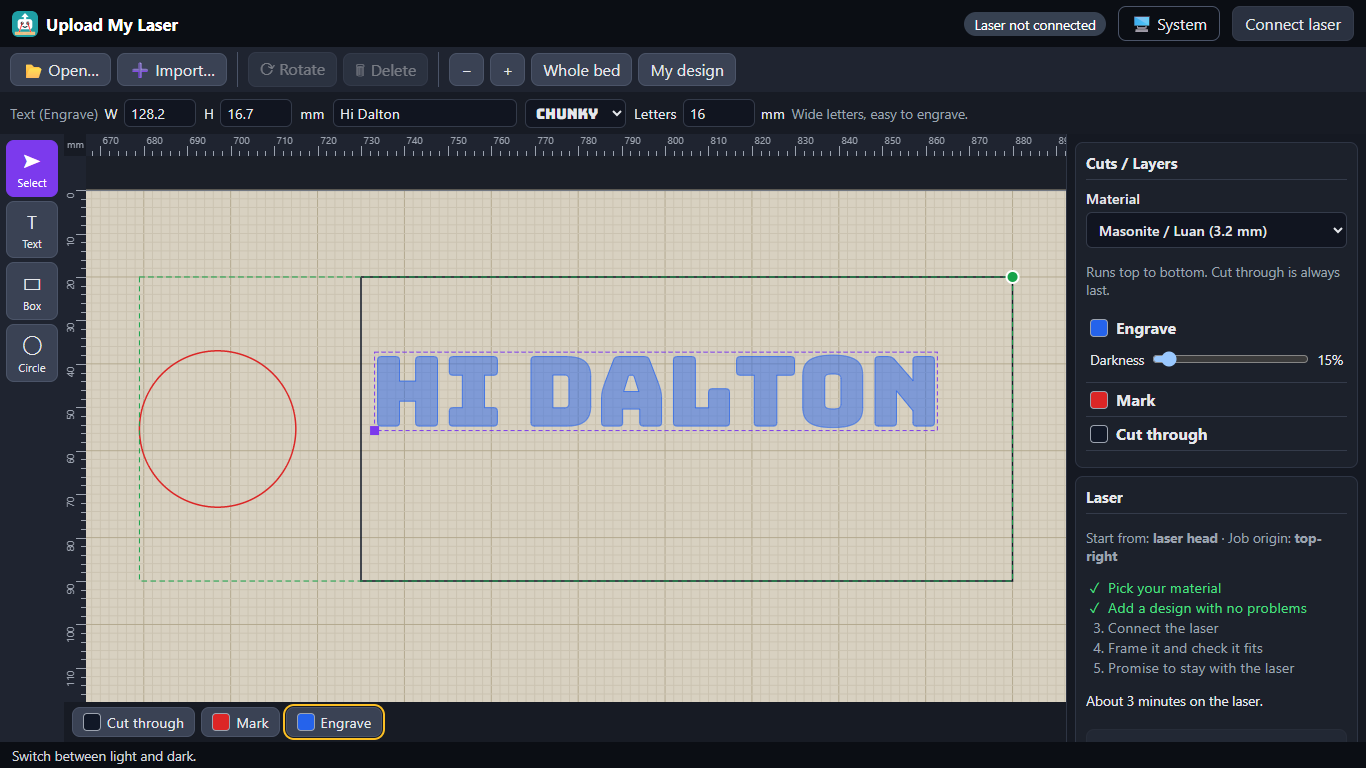
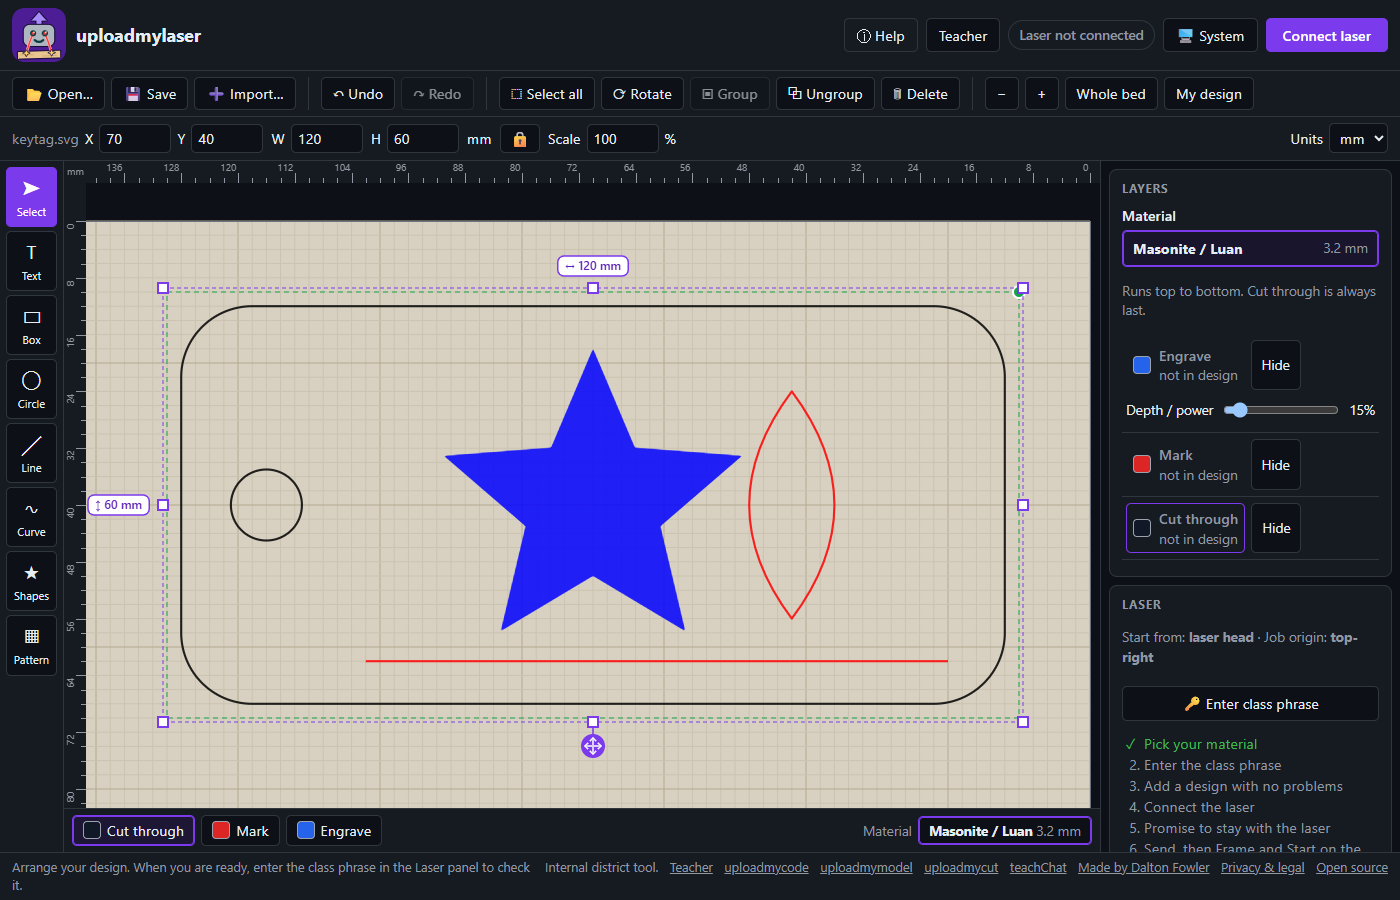
README, docs and Help match today's app; new screenshots
- README: colour list, selecting and grouping (box select, Group/Ungroup,
  Shift+drag pan, right-click menu), Hide a colour, design files (.uml),
  Send to panel as the default with no app Frame button, Download laser
  file and Export for teacher, up to 5000 parts, per-device lockout; the
  encoder sentence now cites MeerK40t rdjob.py. New light/dark screenshots.
- STUDENT_GUIDE, DEPLOY, TEST_PLAN, HARDWARE brought up to date.
- Help window: drag = box select, Shift+drag/middle button pans,
  right-click menu, Save, Group/Ungroup, Hide, Export for teacher.

diff --git a/web/index.html b/web/index.html
@@ -166,7 +166,9 @@
           <h3>Mouse and touch</h3>
           <table>
             <tr><td>Scroll wheel / pinch</td><td>Zoom</td></tr>
-            <tr><td>Drag empty space</td><td>Move around the bed</td></tr>
+            <tr><td>Drag empty space</td><td>Box select. Left to right picks parts inside the box; right to left also picks parts it touches.</td></tr>
+            <tr><td><kbd>Shift</kbd>+drag or middle button</td><td>Move around the bed (one finger on a touchscreen)</td></tr>
+            <tr><td>Right-click</td><td>Menu: colours, Group, Ungroup, Rotate, Delete, Hide/Show a colour</td></tr>
             <tr><td>White squares</td><td>Resize. Corners keep the shape when 🔒 is on; sides stretch one way.</td></tr>
             <tr><td>Size labels (↔ ↕ ⌀)</td><td>Click one and type a new size. Circles show their diameter, lines their length.</td></tr>
             <tr><td>Purple round grip</td><td>Move the selected part(s)</td></tr>
@@ -180,7 +182,10 @@
             <li><b>Black</b> cuts through, <b style="color:#dc2626">red</b> marks a line, <b style="color:#2563eb">blue</b> engraves (fills). The laser always runs Engrave, then Mark, then Cut through.</li>
             <li>The green dot is the <b>top-right corner</b> of your design. Move the laser head there on the machine.</li>
             <li><b>Send to laser</b> only loads your design. Then, on the laser, press <b>Frame</b> (the head traces the outline with the beam off) to check it fits your material, and press <b>Start</b>.</li>
-            <li><b>Open</b> starts over with a file. <b>Import</b> adds a file next to what's there.</li>
+            <li><b>Open</b> starts over with a file. <b>Import</b> adds a file next to what's there. <b>Save</b> keeps your whole design as a <b>.uml</b> file to open again later.</li>
+            <li><b>Group</b> ties parts together. <b>Ungroup</b> unties them, or splits a file into its separate shapes.</li>
+            <li><b>Hide</b> on a colour only hides it on the screen. Hidden lines still run on the laser.</li>
+            <li>No laser here? <b>Export for teacher</b> saves one file with your design and the laser file.</li>
             <li>Text inside an SVG must be converted to paths first, or use the Text tool.</li>
             <li>Cutting out letters? Use the <b>Stencil</b> font so O, A and B keep their middles.</li>
             <li>Type a size, or a <b>Scale %</b> (100 = original size). Switch between <b>mm, cm and inches</b> at the right of the size bar.</li>

diff --git a/README.md b/README.md
@@ -22,29 +22,46 @@ for complex projects. This handles "kid mode".
 
 ## Screenshot
 
-<img src="docs/screenshot-student.png" width="800" alt="The student page at Chromebook size: title bar with the logo, theme toggle and Connect laser; toolbar with Open, Import, Rotate, Delete and zoom; a size bar for the selected text; Select, Text, Box and Circle tools on the left; the laser bed with mm rulers showing a black cut-through box, blue engraved text reading HI DALTON and a red marked circle; the three-colour palette; and the Cuts/Layers and Laser panels on the right with a step checklist">
+<img src="docs/screenshot-student.png" width="800" alt="The student page: title bar with the logo, Help, Teacher, theme toggle and Connect laser; toolbar with Open, Save, Import, Undo, Redo, Select all, Rotate, Group, Ungroup, Delete and zoom; a size bar for the selected file; Select, Text, Box, Circle, Line, Curve, Shapes and Pattern tools on the left; the laser bed with mm rulers showing an imported key tag with a black cut-through outline and hole, a blue engraved star and red marked lines; the three-colour palette and material chip; and the Layers and Laser panels on the right with Hide buttons and a step checklist">
 
-The student page at Chromebook resolution (1366x768): a cut-through box, engraved text and a marked
-circle, with the text selected. There is a [dark mode](docs/screenshot-student-dark.png) too.
+The student page with an imported SVG key tag selected: a cut-through outline and hole, an engraved
+star and marked lines. Before the class phrase is entered, the bed shows the browser's own sketch of
+the file. There is a [dark mode](docs/screenshot-student-dark.png) too.
 
 ## What it does
 
 - **Draw with three colours.** Black cuts through, red marks a line, blue engraves (fills the shape).
   SVG strokes/fills and DXF layers or colours are mapped the same way, and any other colour asks the
-  student what it should do.
+  student what it should do. The **Colours in your files** list shows every colour in every imported
+  file, and each one can be changed (or skipped) at any time.
 - **LightBurn-style workspace.** Open (start over with a file) and Import (add a file next to what's
   there), Text with seven fonts, Box, Circle, Line and Curve tools, a Shapes library (stars, hearts,
-  sports balls, callouts, a potted plant...), a Pattern tool for rows and columns of copies, Ctrl+A multi-select,
-  handles on every corner and side, a move grip, a size lock, Scale %, Undo/Redo, rotate, mm rulers,
-  and mouse-wheel or pinch zoom. Designs autosave to the Chromebook's `localStorage`.
+  sports balls, callouts, a potted plant...), a Pattern tool for rows and columns of copies, handles on
+  every corner and side, a move grip, a size lock, Scale %, Undo/Redo, rotate, mm/cm/inch rulers, and
+  mouse-wheel or pinch zoom. Up to 5000 parts in one design.
+- **Selecting and grouping.** Click, Shift+click or Ctrl+A to select. Drag on empty bed for a box
+  select: left to right picks parts wholly inside, right to left also picks parts it touches.
+  **Group** ties parts together; **Ungroup** unties them, or splits a DXF or SVG into its separate
+  shapes (an engraved shape keeps its holes). Shift+drag or the middle mouse button pans. Right-click
+  opens a menu with the colours, Group, Ungroup, Rotate, Delete and Hide/Show.
+- **Hide a colour.** Each layer has a Hide/Show button. It only changes the screen: hidden lines still
+  run on the laser. While the server works on a change, an "Updating the laser lines..." sign shows.
+- **Design files.** Designs autosave to the Chromebook's `localStorage`. **Save** writes the whole design
+  as a `.uml` file that Open or Import brings back on any computer.
 - **Runs in a safe order.** Engrave, then Mark, then Cut through, always last with all its passes,
   because parts that are cut free can shift. Inner cuts go before outer ones.
 - **The laptop never starts the laser.** Send only loads the job; the student then presses Frame
-  (beam off) and Start on the laser's own panel, so someone is always at the machine. Send stays
-  disabled until the student ticks "I will stay with the laser".
+  (beam off) and Start on the laser's own panel, so someone is always at the machine. The app has no
+  Frame button of its own. By default Send stores the job in the laser's file list under a name of up
+  to 8 letters (replacing a file with the same name); the teacher can switch it to a plain load that
+  waits for Start. Send stays disabled until the student ticks "I will stay with the laser".
   STOP is sent from the browser, so it works even if the network is down (and Esc does the same).
+- **No laser in the room?** **Download laser file** saves the finished job as a Ruida `.rd` file, with
+  the teacher's limits already in it, for the laser's USB port. **Export for teacher** saves one zip with
+  the `.uml` design, the `.rd` file when it is ready, and a `READ ME.txt` saying what state it was in.
 - **A rolling class phrase.** The teacher sets today's phrase, with an expiry, from a `/teacher` page
   guarded by a secret key. The site opens for anyone, but nothing is processed without the phrase.
+  Wrong tries lock out one device at a time, never the whole class (a school shares one IP).
 - **Teacher page.** Materials and presets (materials named PVC, vinyl and other unsafe plastics are refused by name; a
   name check cannot know what a sheet really is), machine
   settings, the class phrase, and a warm-up button for the container.
@@ -72,8 +89,8 @@ Chromebook (Chrome)                          Cloudflare
                                                          → hatch fill → Ruida .rd encoder
 ```
 
-The Ruida `.rd` encoder mirrors what LightBurn writes for this controller, checked against real
-LightBurn files in [test/golden/](test/golden/). See [docs/HARDWARE.md](docs/HARDWARE.md) for what has
+The Ruida `.rd` encoder follows MeerK40t's `rdjob.py` and is checked against known-good `.rd` files
+in [test/golden/](test/golden/). See [docs/HARDWARE.md](docs/HARDWARE.md) for what has
 been verified on the machine, and [PLAN.md](PLAN.md) for the full design.
 
 ## Commands

diff --git a/docs/STUDENT_GUIDE.md b/docs/STUDENT_GUIDE.md
@@ -18,17 +18,21 @@ pieces that are cut free can move.
 3. Add your design:
    - **Open…** starts over with one SVG or DXF file.
    - **Import…** adds another file next to what's already there, like a logo beside your name.
+   - **Save** keeps your whole design as a `.uml` file. Open it later, on any computer, to carry on.
    - **Text**, **Box**, **Circle**, **Line**, **Curve** and **Shapes** on the left. Pick the colour at the bottom first.
    - Stuck? The **ⓘ Help** button at the top lists every shortcut.
 4. Drag parts (or the purple grip under a part) to arrange them. Drag the white squares to resize; the
    lock keeps the shape. Type a size in mm or a Scale %. **Pattern** makes rows of copies. **Undo** fixes mistakes.
-   Scroll or pinch to zoom.
+   Scroll or pinch to zoom. Shift+drag or the middle mouse button moves around the bed.
+   - Drag on empty bed to select several parts. **Group** ties them together.
+   - **Ungroup** splits a file into its separate shapes, so you can move or delete each one.
+   - Right-click a part for a menu.
 5. Wait your turn. Plug the laser's USB cable into your Chromebook and click **Connect laser**.
 6. Move the laser head to where the **top-right corner** of your design should go (the green dot).
-7. Close the lid. Tick **"I will stay with the laser"**. Click **Send to laser**. This only loads
-   your design. The laser does not start.
-8. On the laser, press **Frame**. Watch the head trace a box with the beam off. Make sure it fits
-   on your material. Then press **Start** on the laser.
+7. Close the lid. Tick **"I will stay with the laser"**. Check the **Name on the laser** if it shows
+   (up to 8 letters). Click **Send to laser**. This only loads your design. The laser does not start.
+8. On the laser, pick your file by that name and press **Frame**. Watch the head trace a box with the
+   beam off. Make sure it fits on your material. Then press **Start** on the laser.
 9. **Stay with the laser the whole time.** If anything looks wrong, press **STOP** (or Esc), or the
    red emergency stop button on the laser.
 
@@ -39,7 +43,13 @@ pieces that are cut free can move.
 - **Google Drawings**: **File → Download → SVG**.
 
 If the app asks "What should these colours do?", your file used a different colour. Pick what it
-should be, or **Skip** it.
+should be, or **Skip** it. The **Colours in your files** list lets you change any colour later too.
+
+**Hide** on a layer only hides it on the screen. Hidden lines still run on the laser.
+
+## No laser in this room?
+- **📦 Export for teacher** saves one file with your design, the laser file (when it is ready) and a note.
+- **⬇ Download laser file** saves just the laser job (`.rd`) for your teacher's USB stick.
 
 ## If something goes wrong
 - **No laser in the list when you click Connect:** unplug the cable, plug it back in, and try again.

diff --git a/docs/TEST_PLAN.md b/docs/TEST_PLAN.md
@@ -21,6 +21,8 @@ docker build -t uml container   # proves the image and its fonts still build
 | `/teacher/` with a wrong key | "Wrong teacher key." after a short pause | |
 | Teacher: set phrase, warm up | "Ready." | |
 | Student: phrase, material, Text "Hi" | preview, estimate, no errors | |
+| Student: Import an SVG, Ungroup, Save, then Open the `.uml` | pieces split; the design comes back the same | |
+| Student: Download laser file, Export for teacher | a `.rd`, and one zip with the `.uml`, `.rd` and `READ ME.txt` | |
 
 ## Hardware (Chromebook + laser, cardboard, low power)
 Stay at the machine with the lid closed for every job.
@@ -29,9 +31,9 @@ Stay at the machine with the lid closed for every job.
 |---|---|---|---|
 | 1 | `serial-test.html` replay (local `npm run dev:web` only, not live) of `test/golden/20mm_absolute.rd` | cuts the square; fill in docs/HARDWARE.md table | |
 | 2 | Connect from the student page | port picker shows the FTDI device (0403:6001) | |
-| 3 | Frame a 50 mm box | head traces the box, laser stays off | |
-| 4 | Does Frame start at the **current head position**? | yes → `D8 11` is right. No → see HARDWARE.md | |
-| 5 | Send a 20 mm box, Cut through | runs immediately, or waits for Start on the panel (record which) | |
+| 3 | Send a 50 mm box, press Frame on the laser panel | head traces the box, laser stays off | |
+| 4 | Does the panel Frame start at the **current head position**? | yes → `D8 11` is right. No → see HARDWARE.md | |
+| 5 | Send a 20 mm box, Cut through | shows in the panel file list under its name, waits for Start (never runs on its own) | |
 | 6 | 30 mm circle | round, closes cleanly | |
 | 7 | Box with a circle inside, both Cut through | inner circle is cut **before** the outer box | |
 | 8 | Text "Hi", Engrave | filled letters, holes in letters stay empty | |
@@ -39,7 +41,7 @@ Stay at the machine with the lid closed for every job.
 | 10 | Engrave + Mark + Cut in one design | runs Engrave → Mark → Cut, cut passes last | |
 | 11 | DXF with arcs and a spline | smooth curves, right size | |
 | 12 | Open, then Import a second file | both parts land where shown, relative spacing kept | |
-| 13 | Design near each edge of the material | Frame shows it before cutting | |
+| 13 | Design near each edge of the material | panel Frame shows it before cutting | |
 | 14 | STOP during a long job | laser stops. Record whether the head parks | |
 | 15 | Unplug USB mid-job | page says "Laser not connected"; laser behaviour recorded | |
 | 16 | Cold start (container asleep >10 min) | first preview takes a few seconds, then works | |

diff --git a/docs/HARDWARE.md b/docs/HARDWARE.md
@@ -58,12 +58,12 @@ Decode it yourself: `powershell -ExecutionPolicy Bypass -File scripts\rddecode.p
   origin** (the panel's Origin key)? Jog the head, Frame a job, and see where it traces. If it goes to a stored
   origin instead, students set it with the panel's Origin key, or we switch to `D8 12` (REF_POINT_0).
 
-## Wanted: "Send to panel" (the class's usual workflow)
+## "Send to panel" (the class's usual workflow)
 
 Normally the class uses LightBurn's **Send**, which stores the job in controller memory, then **frames and
 starts from the touchscreen**. That's a good safety gate for kids, because someone has to be at the machine.
-The app currently streams the job the way LightBurn's **Start** does. It also has Frame/Send buttons, which
-are extras.
+The app now does the same by default (teacher setting, on since 2026-09-28): Send stores the job by name,
+and students Frame and Start on the panel. The app has no Frame button and never starts a job.
 
 ### Send to panel: the Ruida file commands
 From MeerK40t's Ruida emulator (`meerk40t/ruida/emulator.py`, MIT), not yet checked on the class RDC6445S:

diff --git a/docs/DEPLOY.md b/docs/DEPLOY.md
@@ -27,8 +27,10 @@ The first deploy pushes the Docker image, which takes a few minutes. Later deplo
   and 400 a minute for everyone (the bill guard), 10 MB upload cap, strict request validation. Power and
   speed only ever come from the teacher's presets in KV, and the container clamps them again.
 - Teacher: `TEACHER_KEY` compared in constant time, 300 ms pause on a wrong key, and a site-wide guard
-  after 100 wrong keys in 15 minutes that never locks out the right key. No per-IP lockouts, since the
-  whole school shares one public IP.
+  after 100 wrong keys in 15 minutes that never locks out the right key.
+- Wrong tries on the class phrase or the teacher key lock out one **device**, not an IP (src/lockout.ts):
+  5 wrong in a row lock it for 5 s, doubling to 300 s at most, and a right answer clears it. The whole
+  school shares one public IP, so one student guessing never locks out the class or the teacher.
 - Optional school-only lock: set `ALLOWED_CIDRS` in wrangler.jsonc to the district's public IP ranges
   (IPv4/IPv6, comma-separated) and redeploy. Ask district IT for them.
 
